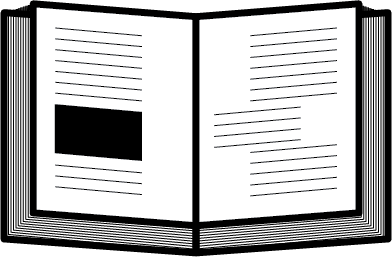
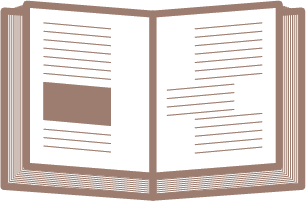
Colors fixed

diff --git a/css/materialize.css b/css/materialize.css
@@ -1955,7 +1955,7 @@ ul {
   list-style-type: none; }
 
 a {
-  color: #8F9C6E;;
+  color: #9C7D6F;;
   text-decoration: none; }
 
 .valign-wrapper {
